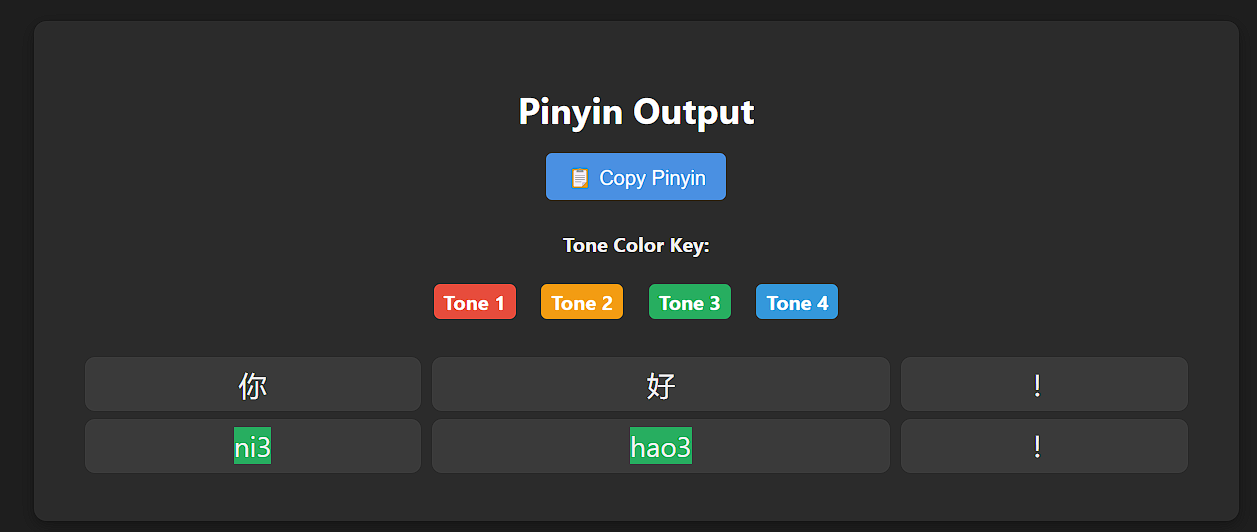
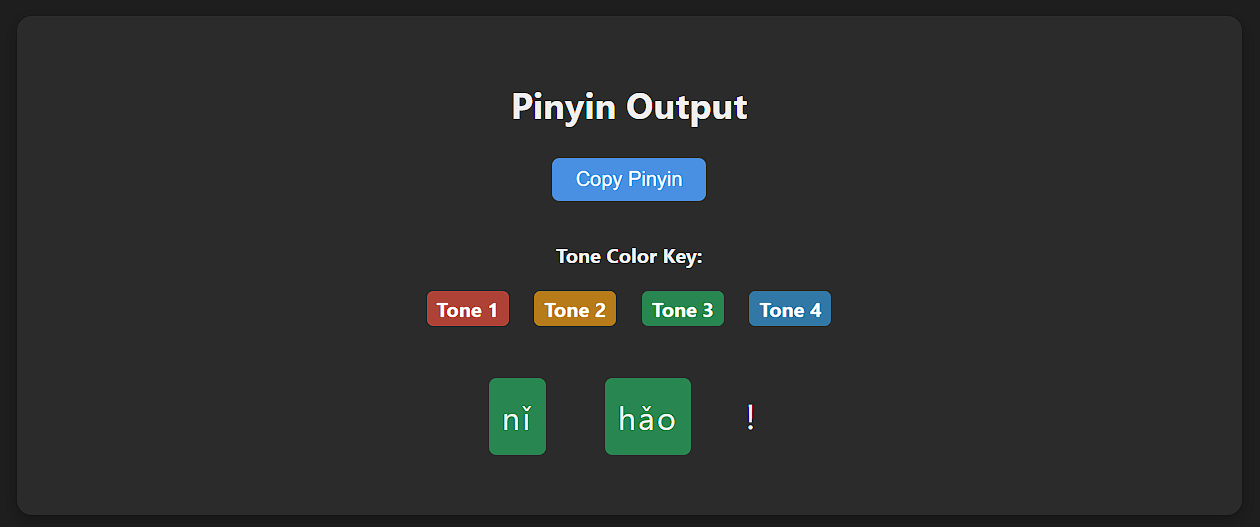
Simplified HTML Output
Made the HTML output only display Pinyin to avoid clutter.

diff --git a/pinyin_translator/html_output.py b/pinyin_translator/html_output.py
@@ -1,41 +1,17 @@
 from pinyin_translator.utils import get_tone_number
 
-def to_html_with_characters(chinese_text, pinyin_text, title="Pinyin Output", chunk_size=12):
-    characters = list(chinese_text)
+def to_html(pinyin_text, title="Pinyin Output"):
     pinyin_words = pinyin_text.split()
 
-    # Break into chunks
-    rows = []
-    pinyin_lines = []  # For JS copy block
-    for i in range(0, len(characters), chunk_size):
-        chunk_chars = characters[i:i + chunk_size]
-        chunk_pinyin = pinyin_words[i:i + chunk_size]
+    pinyin_cells = []
+    for word in pinyin_words:
+        tone = get_tone_number(word)
+        if tone == 0:
+            pinyin_cells.append(f"<span>{word}</span>")
+        else:
+            pinyin_cells.append(f'<span class="tone tone{tone}">{word}</span>')
 
-        chinese_row = "<tr>" + "".join(f"<td class='char'>{char}</td>" for char in chunk_chars) + "</tr>"
-
-        pinyin_cells = []
-        raw_line = []  # To collect raw text
-        for j, char in enumerate(chunk_chars):
-            word = chunk_pinyin[j] if j < len(chunk_pinyin) else ""
-            tone = get_tone_number(word)
-            tooltip = f"Tone {tone}" if tone in {1, 2, 3, 4} else "Neutral tone"
-            raw_line.append(word)
-
-            if tone == 0:
-                pinyin_cells.append(f"<td class='pinyin' title='{tooltip}'>{word}</td>")
-            else:
-                pinyin_cells.append(
-                    f"<td class='pinyin' title='{tooltip}'><span class='tone{tone}'>{word}</span></td>"
-                )
-
-        pinyin_row = "<tr>" + "".join(pinyin_cells) + "</tr>"
-
-        rows.append(chinese_row)
-        rows.append(pinyin_row)
-        pinyin_lines.append(" ".join(raw_line))
-
-    full_table = "\n".join(rows)
-    raw_pinyin_text = "\n".join(pinyin_lines)
+    pinyin_row = " ".join(pinyin_cells)
 
     html = f"""<!DOCTYPE html>
 <html lang="en">
@@ -54,20 +30,20 @@ def to_html_with_characters(chinese_text, pinyin_text, title="Pinyin Output", ch
             max-width: 900px;
             margin: 40px auto;
             background-color: #2b2b2b;
-            padding: 2rem;
-            border-radius: 10px;
+            padding: 2rem 2.5rem;
+            border-radius: 12px;
             box-shadow: 0 4px 12px rgba(0,0,0,0.3);
+            overflow-x: auto;
         }}
         h1 {{
             font-size: 1.8em;
             text-align: center;
-            margin-bottom: 1rem;
-            color: #ffffff;
+            margin-bottom: 1.5rem;
         }}
         .legend {{
             font-size: 1em;
             text-align: center;
-            margin-bottom: 1.5rem;
+            margin-bottom: 1.8rem;
         }}
         .legend span {{
             font-weight: bold;
@@ -76,20 +52,27 @@ def to_html_with_characters(chinese_text, pinyin_text, title="Pinyin Output", ch
             border-radius: 5px;
             color: white;
         }}
-        .tone1 {{ background-color: #e74c3c; }}
-        .tone2 {{ background-color: #f39c12; }}
-        .tone3 {{ background-color: #27ae60; }}
-        .tone4 {{ background-color: #3498db; }}
+        .tone1 {{ background-color: rgba(231, 76, 60, 0.7); }}
+        .tone2 {{ background-color: rgba(243, 156, 18, 0.7); }}
+        .tone3 {{ background-color: rgba(39, 174, 96, 0.7); }}
+        .tone4 {{ background-color: rgba(52, 152, 219, 0.7); }}
+
+        .tone {{
+            padding: 0.2em 0.4em;
+            border-radius: 6px;
+            margin: 0 0.25em;
+            display: inline-block;
+        }}
 
         .copy-section {{
             text-align: center;
-            margin-bottom: 1.5rem;
+            margin-bottom: 2rem;
         }}
         .copy-button {{
-            padding: 0.5em 1em;
+            padding: 0.5em 1.2em;
             font-size: 1em;
             border: none;
-            border-radius: 5px;
+            border-radius: 6px;
             background-color: #4a90e2;
             color: white;
             cursor: pointer;
@@ -101,26 +84,36 @@ def to_html_with_characters(chinese_text, pinyin_text, title="Pinyin Output", ch
             display: none;
         }}
 
-        table {{
-            width: 100%;
-            border-collapse: separate;
-            border-spacing: 0.4em 0.3em;
+        .pinyin {{
+            font-size: 1.6em;
             text-align: center;
-            font-size: 1.4em;
+            line-height: 2em;
+            letter-spacing: 0.08em;
+            word-spacing: 1em;
+            padding: 1rem 0;
         }}
-        td {{
-            padding: 0.3em 0.5em;
-            background-color: #3a3a3a;
-            border-radius: 8px;
-            word-wrap: break-word;
-            white-space: nowrap;
-            vertical-align: middle;
-        }}
-        .pinyin, .char {{
-            vertical-align: middle;
-        }}
-        .tone1, .tone2, .tone3, .tone4 {{
-            display: inline-block;
+
+        /* 🖨 Print-friendly styles */
+        @media print {{
+            body {{
+                background-color: white;
+                color: black;
+            }}
+            .container {{
+                box-shadow: none;
+                background-color: white;
+                color: black;
+                padding: 1.5rem;
+            }}
+            .tone {{
+                background-color: transparent !important;
+                color: black !important;
+                border-radius: 0;
+            }}
+            .legend,
+            .copy-section {{
+                display: none;
+            }}
         }}
     </style>
 </head>
@@ -129,7 +122,7 @@ def to_html_with_characters(chinese_text, pinyin_text, title="Pinyin Output", ch
         <h1>{title}</h1>
 
         <div class="copy-section">
-            <button class="copy-button" onclick="copyPinyin()">📋 Copy Pinyin</button>
+            <button class="copy-button" onclick="copyPinyin()">Copy Pinyin</button>
         </div>
 
         <div class="legend">
@@ -140,12 +133,12 @@ def to_html_with_characters(chinese_text, pinyin_text, title="Pinyin Output", ch
             <span class="tone4">Tone 4</span>
         </div>
 
-        <table>
-            {full_table}
-        </table>
+        <div class="pinyin">
+            {pinyin_row}
+        </div>
     </div>
 
-    <textarea id="rawPinyin">{raw_pinyin_text}</textarea>
+    <textarea id="rawPinyin">{pinyin_text}</textarea>
 
     <script>
         function copyPinyin() {{

diff --git a/main.py b/main.py
@@ -1,37 +1,29 @@
 from pinyin_translator.converter import convert_to_pinyin
-from pinyin_translator.html_output import to_html_with_characters
+from pinyin_translator.html_output import to_html
 import webbrowser
-
 
 def main():
     print("Welcome to the Chinese → Pinyin Converter!\n")
 
-    # Step 1: Ask for input
     chinese_text = input("Enter your Chinese text:\n> ").strip()
-
     if not chinese_text:
-        print("⚠ No input provided. Exiting.")
+        print("No input provided. Exiting.")
         return
 
-    # Step 2: Ask for tone preference
     print("\nUse tone marks or tone numbers?")
     print("1 - Tone marks (e.g., nǐ hǎo)")
     print("2 - Tone numbers (e.g., ni3 hao3)")
     tone_choice = input("> ").strip()
 
     use_tone_marks = tone_choice != "2"
+    pinyin = convert_to_pinyin(chinese_text, use_tone_marks)
 
-    # Step 3: Ask where to send the output
     print("\nWhere do you want the output?")
     print("1 - Console")
     print("2 - Text file")
     print("3 - HTML file")
     output_choice = input("> ").strip()
 
-    # Step 4: Convert
-    pinyin = convert_to_pinyin(chinese_text, use_tone_marks=use_tone_marks)
-
-    # Step 5: Output
     if output_choice == "1":
         print("\nYour Pinyin Output:\n")
         print(pinyin)
@@ -39,7 +31,7 @@ def main():
     elif output_choice == "2":
         filename = input("Enter output filename (e.g., output.txt):\n> ").strip()
         if not filename:
-            print("⚠ No filename provided. Exiting.")
+            print("No filename provided. Exiting.")
             return
         with open(filename, "w", encoding="utf-8") as f:
             f.write(pinyin)
@@ -48,17 +40,16 @@ def main():
     elif output_choice == "3":
         filename = input("Enter HTML output filename (e.g., output.html):\n> ").strip()
         if not filename:
-            print("⚠ No filename provided. Exiting.")
+            print("No filename provided. Exiting.")
             return
-        html = to_html_with_characters(chinese_text, pinyin)
+        html = to_html(pinyin)  # Only pass the pinyin to the HTML generator
         with open(filename, "w", encoding="utf-8") as f:
             f.write(html)
         print(f"HTML output written to {filename}")
         webbrowser.open(filename)
 
-
     else:
-        print("⚠ Invalid choice. Exiting.")
+        print("Invalid choice. Exiting.")
 
 if __name__ == "__main__":
     main()

diff --git a/pinyin_translator/converter.py b/pinyin_translator/converter.py
@@ -1,21 +1,6 @@
 from pypinyin import pinyin, Style
 
 def convert_to_pinyin(text, use_tone_marks=True):
-    """
-    Converts Simplified Chinese Characters into Pinyin.
-
-    Args:
-        text (str): Chinese Characters to convert into Pinyin.
-        use_tone_marks (bool): If True, uses unicode tone marks over vowels to indicate tones.
-                               If False, uses tone numbers.
-
-    Returns: 
-        str: Pinyin translation of the Simplified Chinese Characters.
-    """
-
     style = Style.TONE if use_tone_marks else Style.TONE3
-
-    pinyin_list = pinyin(text, style=style, strict=False)
-    flat = [item[0] for item in pinyin_list]
-
-    return ' '.join(flat)
+    result = pinyin(text, style=style, strict=False, errors='default')
+    return " ".join(item[0] for item in result)
